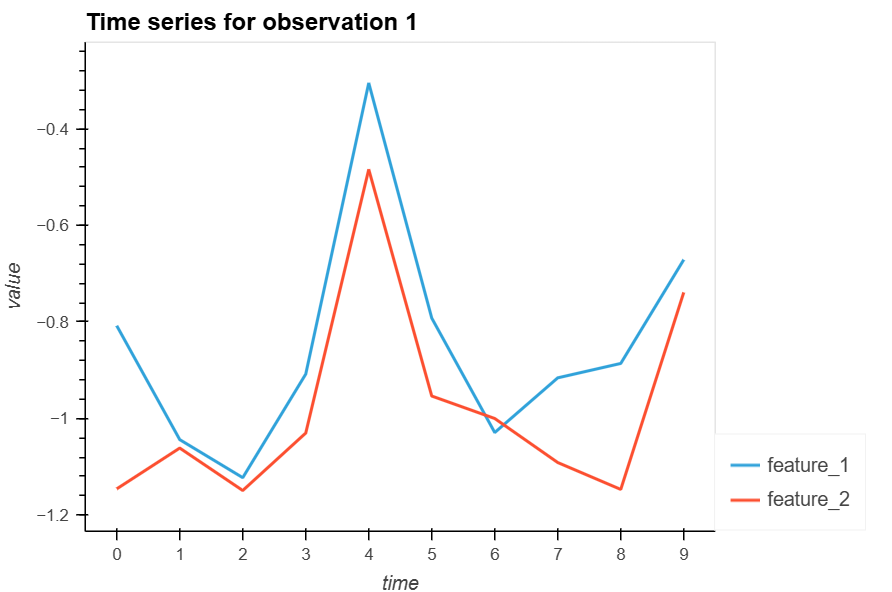
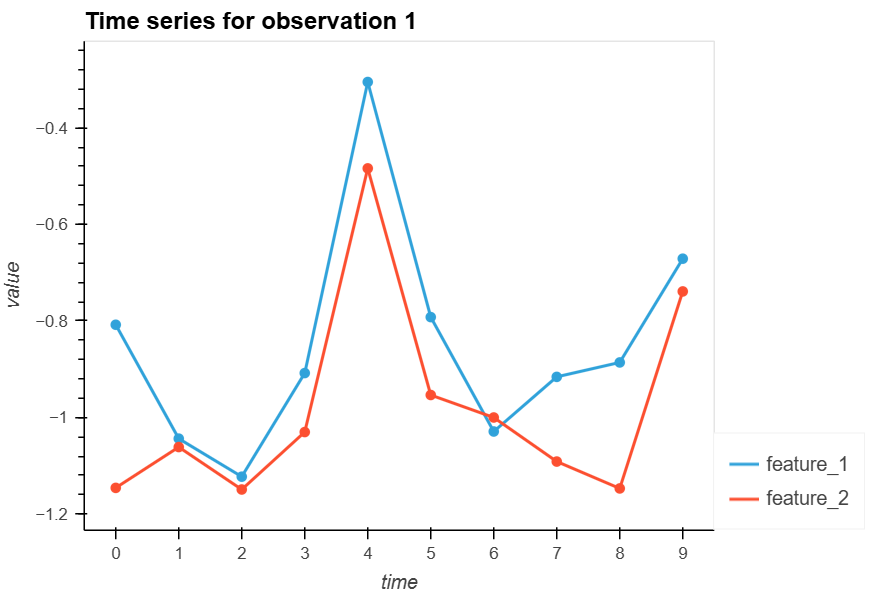
sankey state transitions colors and hover function for timeseries plots (#1019)
* sankey state transitions colors and hover function for timeseries plots, reference image for sankey updated

diff --git a/ehrapy/plot/_sankey.py b/ehrapy/plot/_sankey.py
@@ -126,6 +126,7 @@ def sankey_diagram_time(
     state_labels: dict[int, str] | None = None,
     node_width: int | float = 20,
     node_padding: int | float = 10,
+    cmap: str | list[str] | None = None,
     node_color: str | None = None,
     edge_color: str | None = None,
     label_position: str | None = "right",
@@ -150,6 +151,7 @@ def sankey_diagram_time(
                     If None, state values will be displayed as strings of their numeric codes (e.g., "0", "1", "2").
         node_width: Width of the nodes in the Sankey diagram.
         node_padding: Padding between nodes in the Sankey diagram.
+        cmap: Colormap to use for coloring states. Can be a string recognized by Holoviews or a list of color hex codes.
         node_color: Color of the nodes. If None, default coloring is used.
         edge_color: Color of the edges. If None, default coloring is used.
         label_position: Position of the labels on the nodes. Options are 'left', 'right', 'outer', or 'inner'.
@@ -212,6 +214,23 @@ def sankey_diagram_time(
     state_values = sorted(state_labels.keys())
     state_names = [state_labels[val] for val in state_values]
 
+    if cmap is None:
+        cmap = hv.plotting.util.process_cmap("Category10", ncolors=len(state_names))
+    elif isinstance(cmap, str):
+        cmap = hv.plotting.util.process_cmap(cmap, ncolors=len(state_names))
+    else:
+        cmap = list(cmap)
+        if len(cmap) < len(state_names):
+            raise ValueError(f"Provided cmap has {len(cmap)} colors but {len(state_names)} are needed.")
+
+    # map each state label to a fixed color
+    state_color_map = {name: cmap[i] for i, name in enumerate(state_names)}
+
+    def _color_for_label(label: str) -> str:
+        """Helper function to get the bare state name without suffixes."""
+        state = label.rsplit(" (", 1)[0]
+        return state_color_map.get(state, "#aaaaaa")  # fall back to grey if a state name is not in the map
+
     sources, targets, values = [], [], []
     for t in range(len(time_steps) - 1):
         for s_from_idx, s_from_val in enumerate(state_values):
@@ -225,8 +244,27 @@ def sankey_diagram_time(
                     values.append(int(count))
 
     sankey_df = pd.DataFrame({"source": sources, "target": targets, "value": values})
+    sankey_df["edge_color"] = sankey_df["source"].apply(_color_for_label)
 
-    sankey = hv.Sankey(sankey_df, kdims=["source", "target"], vdims=["value"])
+    # node labels in appearance order
+    all_labels = list(dict.fromkeys(sources + targets))
+
+    # explicit node dataset with "label" as the key dimension
+    node_df = pd.DataFrame({"label": all_labels})
+    nodes = hv.Dataset(node_df, kdims=["label"])
+
+    # map every node label to its state color
+    label_color_map = {lbl: _color_for_label(lbl) for lbl in all_labels}
+
+    sankey = hv.Sankey(
+        (sankey_df, nodes),
+        kdims=["source", "target"],
+        vdims=["value", "edge_color"],
+    )
+
+    print(state_labels)
+    print("names")
+    print(state_names)
 
     opts_dict: dict[str, Any] = {}
 
@@ -242,10 +280,17 @@ def sankey_diagram_time(
         opts_dict["node_padding"] = node_padding
     if title is not None:
         opts_dict["title"] = title
-    if node_color is not None:
+    if node_color is None:
+        opts_dict["node_color"] = "label"
+        opts_dict["cmap"] = label_color_map
+    else:
         opts_dict["node_color"] = node_color
-    if edge_color is not None:
+    if edge_color is None:
+        opts_dict["edge_color"] = "edge_color"
+    else:
         opts_dict["edge_color"] = edge_color
+    opts_dict["node_size"] = 0
+
     if label_position is not None:
         opts_dict["label_position"] = label_position
     if show_values is not None:

diff --git a/ehrapy/plot/_timeseries.py b/ehrapy/plot/_timeseries.py
@@ -105,9 +105,12 @@ def timeseries(
             }
         )
 
-        curves = [
-            hv.Curve(g, kdims="time", vdims="value", label=series) for series, g in df.groupby("series", sort=False)
-        ]
+        curves = []
+        for series, g in df.groupby("series", sort=False):
+            curve = hv.Curve(g, kdims="time", vdims=["value", "variable"], label=series)
+            points = hv.Scatter(g, kdims="time", vdims=["value", "variable"]).opts(size=6, tools=["hover"])
+            curves.append(curve * points)
+
         plot = hv.Overlay(curves)
 
         plot_title = title if title is not None else f"Time series for variable {k}"
@@ -121,9 +124,10 @@ def timeseries(
         curves = []
         for var_i, var_label in enumerate(var_labels):
             y = np.asarray(mtx[obs_i, var_i, :], dtype=float)
-            g = pd.DataFrame({"time": timepoints, "value": y})
-            curves.append(hv.Curve(g, kdims="time", vdims="value", label=str(var_label)))
-
+            g = pd.DataFrame({"time": timepoints, "value": y, "variable": str(var_label)})
+            curve = hv.Curve(g, kdims="time", vdims=["value", "variable"], label=str(var_label))
+            points = hv.Scatter(g, kdims="time", vdims=["value", "variable"]).opts(size=6, tools=["hover"])
+            curves.append(curve * points)
         panel = hv.Overlay(curves)
 
         panel_title = (
